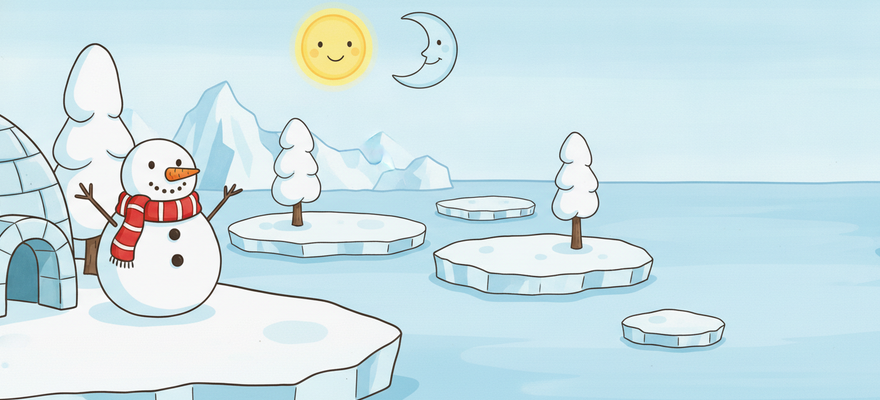
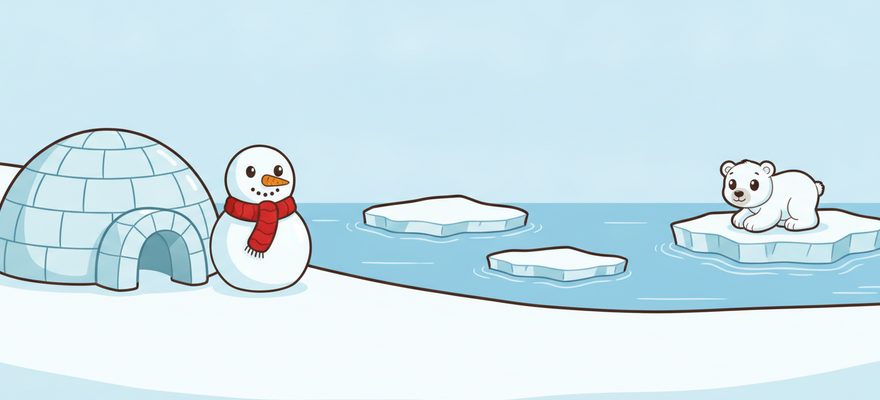
Defender: redo the backyard, desert and arctic map strips without faces
Describe the sky as plain with no sun or moon, and swap the desert's
cacti for a palm oasis, since the model kept drawing faces on both.

Claude-Session: https://claude.ai/code/session_01EFREJBX8jm5rRQPAyJTUcN

diff --git a/defender/tools/gen_art.py b/defender/tools/gen_art.py
@@ -48,12 +48,12 @@ ARENAS = [
     'a night-time lawn under a starry sky with a telescope and a picnic blanket',
 ]
 MAPS = [
-    'a backyard on a bright day with a red garden shed, a picket fence and flower beds',
+    'a backyard with a red garden shed, a picket fence and flower beds, under a plain blue sky with a few clouds and no sun',
     'a pond with reeds, lily pads and a duck, willow trees behind',
     'the inside of a cosy library with tall bookshelves and a round red rug',
     'a beach with a small sailing boat and a whale spout out at sea',
-    'a desert with pyramids and cacti under a clear blue sky',
-    'a snowy arctic landscape with an igloo, a snowman and ice floes',
+    'a desert with pyramids, rolling sand dunes and a small palm oasis, under a plain clear blue sky with no sun',
+    'a snowy arctic landscape with an igloo, a snowman and ice floes, under a plain pale sky with no sun or moon',
     'a dense green jungle with a monkey in a tree and a parrot',
     'a starry night sky over a dark lawn with a telescope and a crescent moon',
 ]
